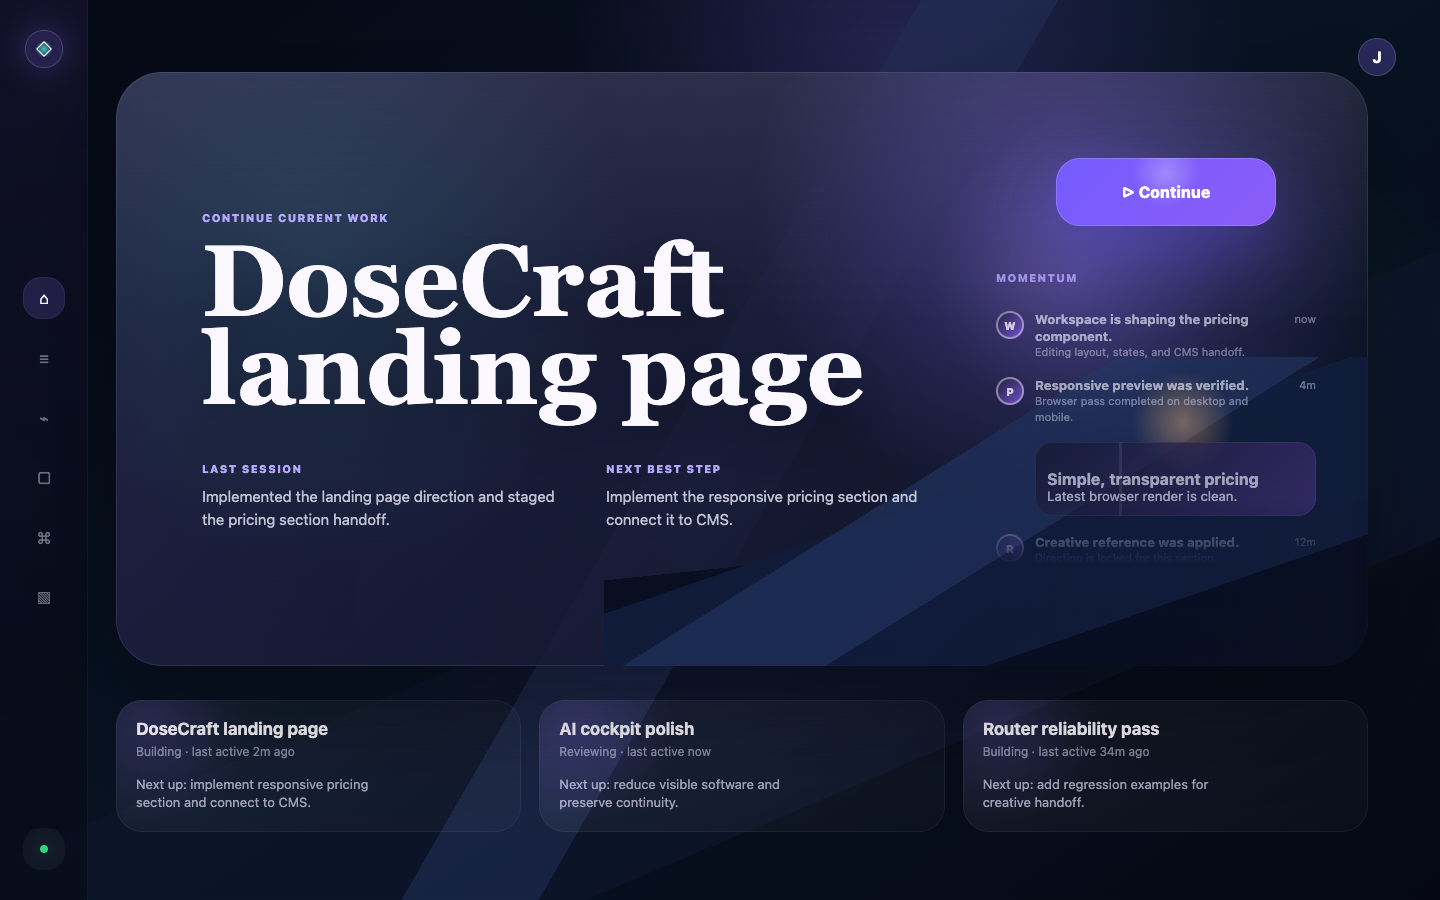
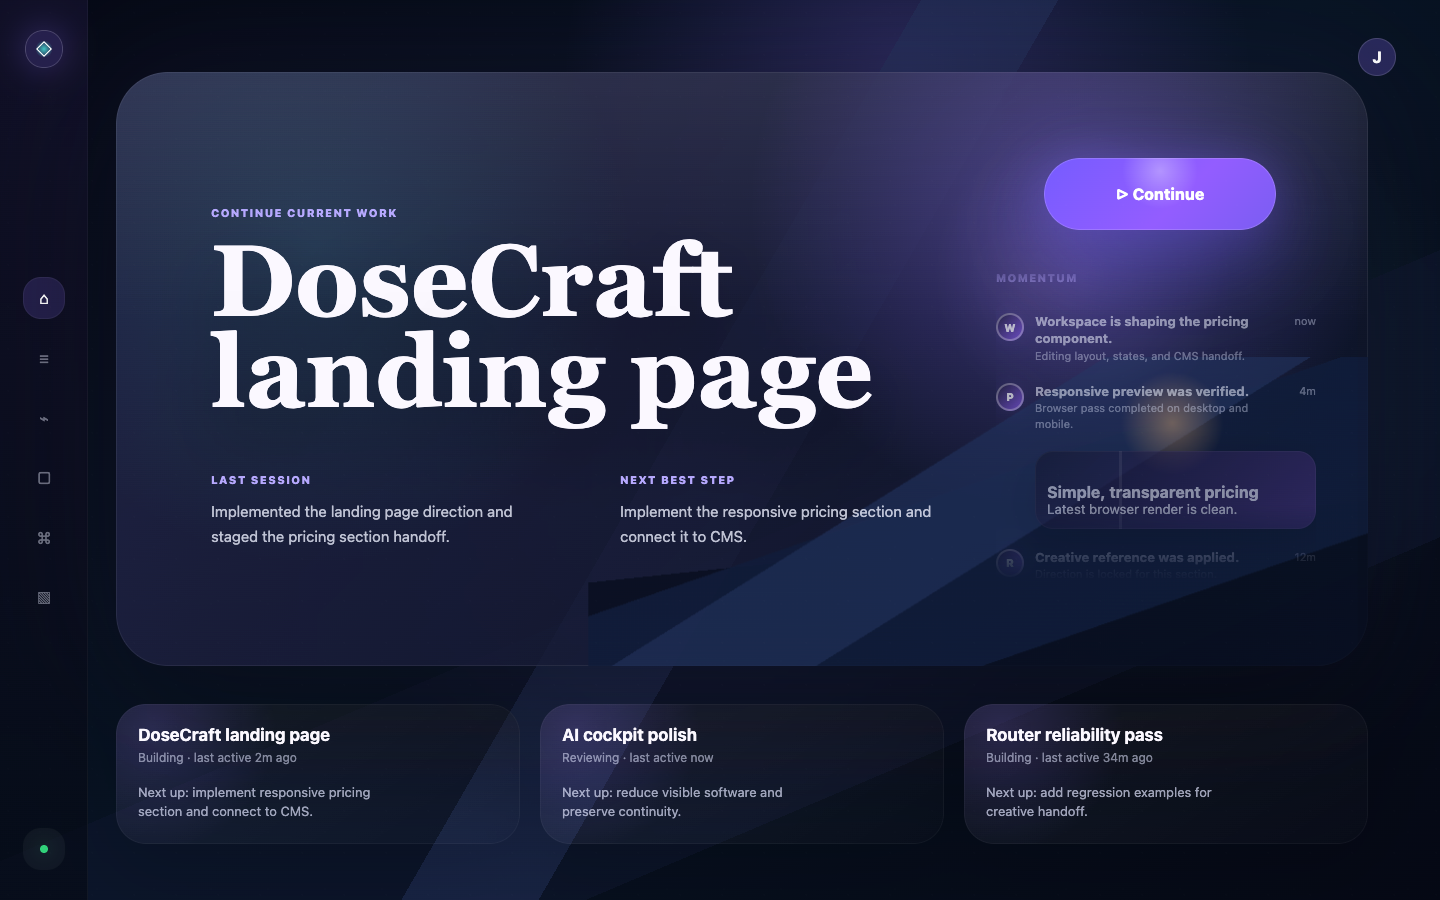
Refine cockpit environmental prototype

diff --git a/.design-mocks/cockpit-environment-v1.html b/.design-mocks/cockpit-environment-v1.html
@@ -33,6 +33,20 @@
       font-family: Inter, ui-sans-serif, system-ui, -apple-system, BlinkMacSystemFont, "Segoe UI", sans-serif;
     }
 
+    html::before {
+      content: "";
+      position: fixed;
+      inset: 0;
+      pointer-events: none;
+      background-image:
+        radial-gradient(circle at 20% 30%, rgba(255, 255, 255, .05) 0 1px, transparent 1px),
+        radial-gradient(circle at 70% 60%, rgba(255, 255, 255, .035) 0 1px, transparent 1px);
+      background-size: 42px 42px, 57px 57px;
+      opacity: .16;
+      mix-blend-mode: screen;
+      z-index: 4;
+    }
+
     body::before,
     body::after {
       content: "";
@@ -54,8 +68,8 @@
       background:
         radial-gradient(circle at 50% 50%, rgba(140, 107, 255, .18), transparent 32%),
         radial-gradient(circle at 72% 44%, rgba(69, 216, 207, .08), transparent 20%);
-      filter: blur(26px);
-      animation: breathe 10s ease-in-out infinite alternate;
+      filter: blur(34px);
+      animation: breathe 14s ease-in-out infinite alternate;
     }
 
     .world {
@@ -153,15 +167,18 @@
       position: relative;
       display: grid;
       align-content: center;
-      padding: clamp(48px, 6vw, 86px);
-      border-radius: 46px;
+      padding: clamp(58px, 6.6vw, 96px);
+      border-radius: 52px;
       overflow: hidden;
       background:
         linear-gradient(180deg, rgba(255, 255, 255, .075), rgba(255, 255, 255, 0) 42%),
         radial-gradient(circle at 76% 22%, rgba(140, 107, 255, .36), transparent 30%),
         radial-gradient(circle at 16% 30%, rgba(69, 216, 207, .13), transparent 28%),
         linear-gradient(135deg, rgba(36, 37, 73, .9), rgba(9, 15, 31, .78));
-      box-shadow: 0 44px 120px rgba(0, 0, 0, .38), inset 0 0 0 1px rgba(255, 255, 255, .09);
+      box-shadow:
+        0 52px 140px rgba(0, 0, 0, .42),
+        0 0 120px rgba(140, 107, 255, .08),
+        inset 0 0 0 1px rgba(255, 255, 255, .065);
     }
 
     .scene::before {
@@ -176,7 +193,8 @@
         linear-gradient(148deg, transparent 0 38%, rgba(31, 47, 88, .82) 38% 53%, transparent 53%),
         linear-gradient(161deg, transparent 0 42%, rgba(16, 28, 58, .94) 42% 72%, transparent 72%),
         linear-gradient(174deg, transparent 0 54%, rgba(8, 14, 31, .98) 54% 100%);
-      opacity: .94;
+      opacity: .86;
+      animation: horizon-drift 18s ease-in-out infinite alternate;
     }
 
     .scene::after {
@@ -187,14 +205,15 @@
         linear-gradient(90deg, rgba(5, 8, 20, .25), transparent 44%, rgba(5, 8, 20, .25)),
         radial-gradient(circle at 78% 34%, rgba(140, 107, 255, .45), transparent 14%);
       mix-blend-mode: screen;
-      opacity: .58;
-      animation: breathe 9s ease-in-out infinite alternate;
+      opacity: .5;
+      animation: breathe 13s ease-in-out infinite alternate;
     }
 
     .copy {
       position: relative;
       z-index: 1;
       max-width: 890px;
+      transform: translateY(6px);
     }
 
     .kicker,
@@ -209,27 +228,27 @@
 
     h1 {
       max-width: 840px;
-      margin: 12px 0 0;
+      margin: 16px 0 0;
       font-family: ui-serif, Georgia, serif;
       font-size: clamp(64px, 7vw, 110px);
-      line-height: .88;
+      line-height: .9;
       letter-spacing: 0;
-      text-shadow: 0 24px 60px rgba(0, 0, 0, .3);
+      text-shadow: 0 28px 70px rgba(0, 0, 0, .34);
     }
 
     .memory {
       width: min(760px, 68vw);
       display: grid;
       grid-template-columns: 1fr 1fr;
-      gap: 48px;
-      margin-top: 44px;
+      gap: 58px;
+      margin-top: 52px;
     }
 
     .memory p {
-      margin: 9px 0 0;
+      margin: 12px 0 0;
       color: rgba(238, 241, 255, .78);
       font-size: 15px;
-      line-height: 1.55;
+      line-height: 1.62;
     }
 
     .continue {
@@ -237,21 +256,31 @@
       z-index: 2;
       top: clamp(54px, 8vw, 86px);
       right: clamp(54px, 8vw, 92px);
-      min-width: 220px;
-      height: 68px;
+      min-width: 232px;
+      height: 72px;
       border: 0;
-      border-radius: 24px;
+      border-radius: 999px;
       color: #fff;
-      background: radial-gradient(circle at 50% 22%, rgba(255, 255, 255, .27), transparent 28%), linear-gradient(135deg, #755cff, #8b5cf6);
-      box-shadow: 0 28px 68px rgba(91, 75, 219, .48), inset 0 0 0 1px rgba(255, 255, 255, .16);
+      background:
+        radial-gradient(circle at 50% 18%, rgba(255, 255, 255, .34), transparent 29%),
+        linear-gradient(135deg, #765cff, #935dff 58%, #7a5df2);
+      box-shadow:
+        0 30px 80px rgba(91, 75, 219, .52),
+        0 0 54px rgba(140, 107, 255, .28),
+        inset 0 0 0 1px rgba(255, 255, 255, .18);
       font: inherit;
       font-weight: 800;
-      transition: transform .28s ease, box-shadow .28s ease;
+      transition: transform .32s ease, box-shadow .32s ease, filter .32s ease;
+      animation: button-pulse 6s ease-in-out infinite alternate;
     }
 
     .continue:hover {
       transform: translateY(-3px) scale(1.015);
-      box-shadow: 0 34px 82px rgba(91, 75, 219, .58), inset 0 0 0 1px rgba(255, 255, 255, .2);
+      filter: saturate(1.08);
+      box-shadow:
+        0 38px 92px rgba(91, 75, 219, .62),
+        0 0 72px rgba(140, 107, 255, .36),
+        inset 0 0 0 1px rgba(255, 255, 255, .22);
     }
 
     .momentum {
@@ -261,10 +290,10 @@
       right: 52px;
       width: min(320px, 24vw);
       display: grid;
-      gap: 18px;
+      gap: 20px;
       color: rgba(239, 242, 255, .8);
-      opacity: .78;
-      mask-image: linear-gradient(180deg, #000 0 78%, transparent 100%);
+      opacity: .66;
+      mask-image: linear-gradient(180deg, transparent 0, #000 10%, #000 76%, transparent 100%);
     }
 
     .event {
@@ -282,7 +311,7 @@
       border-radius: 999px;
       color: #fff;
       background: linear-gradient(135deg, #191b2e, #8b5cf6);
-      box-shadow: inset 0 0 0 2px rgba(255, 255, 255, .55);
+      box-shadow: 0 0 24px rgba(140, 107, 255, .2), inset 0 0 0 2px rgba(255, 255, 255, .42);
       font-size: 11px;
       font-style: normal;
       font-weight: 850;
@@ -295,7 +324,7 @@
 
     .event strong {
       font-size: 13px;
-      line-height: 1.25;
+      line-height: 1.32;
     }
 
     .event small,
@@ -307,7 +336,7 @@
     }
 
     .preview {
-      min-height: 74px;
+      min-height: 78px;
       margin-left: 39px;
       display: grid;
       align-content: end;
@@ -317,24 +346,38 @@
       background:
         linear-gradient(90deg, transparent 0 30%, rgba(255, 255, 255, .1) 30% 31%, transparent 31%),
         linear-gradient(135deg, rgba(18, 23, 47, .95), rgba(68, 48, 121, .86));
-      box-shadow: inset 0 0 0 1px rgba(255, 255, 255, .08);
+      box-shadow: 0 18px 46px rgba(0, 0, 0, .18), inset 0 0 0 1px rgba(255, 255, 255, .06);
     }
 
     .threads {
       display: grid;
       grid-template-columns: repeat(3, minmax(0, 1fr));
-      gap: 18px;
-      margin-top: 34px;
+      gap: 20px;
+      margin-top: 38px;
     }
 
     .thread {
-      min-height: 132px;
-      padding: 20px;
-      border-radius: 26px;
+      min-height: 138px;
+      padding: 22px;
+      border-radius: 30px;
       background:
-        radial-gradient(circle at 9% 18%, rgba(140, 107, 255, .2), transparent 26%),
-        linear-gradient(145deg, rgba(255, 255, 255, .06), rgba(255, 255, 255, .018));
-      box-shadow: inset 0 0 0 1px rgba(255, 255, 255, .06);
+        radial-gradient(circle at 9% 18%, rgba(140, 107, 255, .18), transparent 32%),
+        linear-gradient(145deg, rgba(255, 255, 255, .052), rgba(255, 255, 255, .012));
+      box-shadow:
+        0 24px 70px rgba(0, 0, 0, .12),
+        inset 0 0 0 1px rgba(255, 255, 255, .04);
+      backdrop-filter: blur(18px);
+      transition: transform .28s ease, box-shadow .28s ease, background .28s ease;
+    }
+
+    .thread:hover {
+      transform: translateY(-3px);
+      background:
+        radial-gradient(circle at 9% 18%, rgba(140, 107, 255, .24), transparent 34%),
+        linear-gradient(145deg, rgba(255, 255, 255, .068), rgba(255, 255, 255, .018));
+      box-shadow:
+        0 34px 86px rgba(0, 0, 0, .2),
+        inset 0 0 0 1px rgba(255, 255, 255, .055);
     }
 
     .thread strong,
@@ -356,21 +399,56 @@
 
     .thread p {
       max-width: 31ch;
-      margin: 16px 0 0;
+      margin: 18px 0 0;
       color: rgba(226, 230, 255, .68);
       font-size: 13px;
-      line-height: 1.45;
+      line-height: 1.52;
     }
 
     @keyframes breathe {
       from {
-        transform: translate3d(-1%, 0, 0) scale(1);
-        opacity: .48;
+        transform: translate3d(-.8%, 0, 0) scale(1);
+        opacity: .42;
       }
 
       to {
-        transform: translate3d(1%, -1%, 0) scale(1.04);
-        opacity: .76;
+        transform: translate3d(.8%, -.8%, 0) scale(1.035);
+        opacity: .7;
+      }
+    }
+
+    @keyframes horizon-drift {
+      from {
+        transform: translate3d(-1.4%, .5%, 0) scale(1.01);
+      }
+
+      to {
+        transform: translate3d(1.2%, -.6%, 0) scale(1.04);
+      }
+    }
+
+    @keyframes button-pulse {
+      from {
+        box-shadow:
+          0 30px 80px rgba(91, 75, 219, .45),
+          0 0 44px rgba(140, 107, 255, .22),
+          inset 0 0 0 1px rgba(255, 255, 255, .16);
+      }
+
+      to {
+        box-shadow:
+          0 34px 92px rgba(91, 75, 219, .58),
+          0 0 70px rgba(140, 107, 255, .32),
+          inset 0 0 0 1px rgba(255, 255, 255, .21);
+      }
+    }
+
+    @media (prefers-reduced-motion: reduce) {
+      body::after,
+      .scene::before,
+      .scene::after,
+      .continue {
+        animation: none;
       }
     }
 
@@ -394,7 +472,7 @@
 
       .scene {
         min-height: auto;
-        padding: 44px 26px 36px;
+        padding: 48px 26px 38px;
         border-radius: 28px;
       }
 